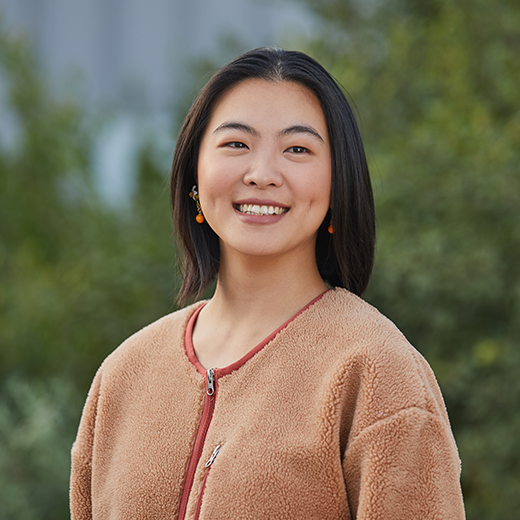
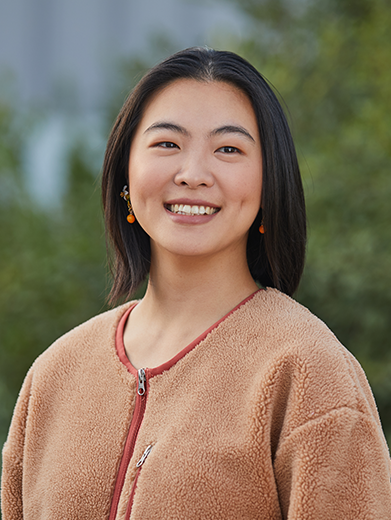
minor

diff --git a/_includes/invited_speakers.html b/_includes/invited_speakers.html
@@ -9,7 +9,7 @@
           <img class="fa fa-4x text-primary" src="{{ member.image }}" alt="{{ member.title }}">
           <h3 class="h4 mb-2">{{ member.title }}</h3>
           <p class="text-white-50 mb-0">{{ member.text }}</p>
-          <p class="text-white-50 mb-0">{{ member.url }}</p>
+          <p href="{{ member.url }}">{{ Website }}</p>
         </div>
       </div>
       {% endfor %}

diff --git a/index.md b/index.md
@@ -54,7 +54,7 @@ sections:
         url: http://www.hyadatalab.com/
       - title: Angela Fan
         text: Facebook AI Research
-        image: assets/img/invited_speakers/angela2.jpg
+        image: assets/img/invited_speakers/angela.jpg
         url: https://ai.facebook.com/people/angela-fan
       - title: Nanyun (Violet) Peng
         text: University of California, Los Angeles
@@ -62,7 +62,7 @@ sections:
         url: https://vnpeng.net/
       - title: Karthik Narasimhan
         text: Princeton University
-        image: assets/img/invited_speakers/karthik2.jpg
+        image: assets/img/invited_speakers/karthik.jpg
         url: https://www.cs.princeton.edu/~karthikn/
       - title: Nick Walton
         text: Latitude - AI Dungeon
